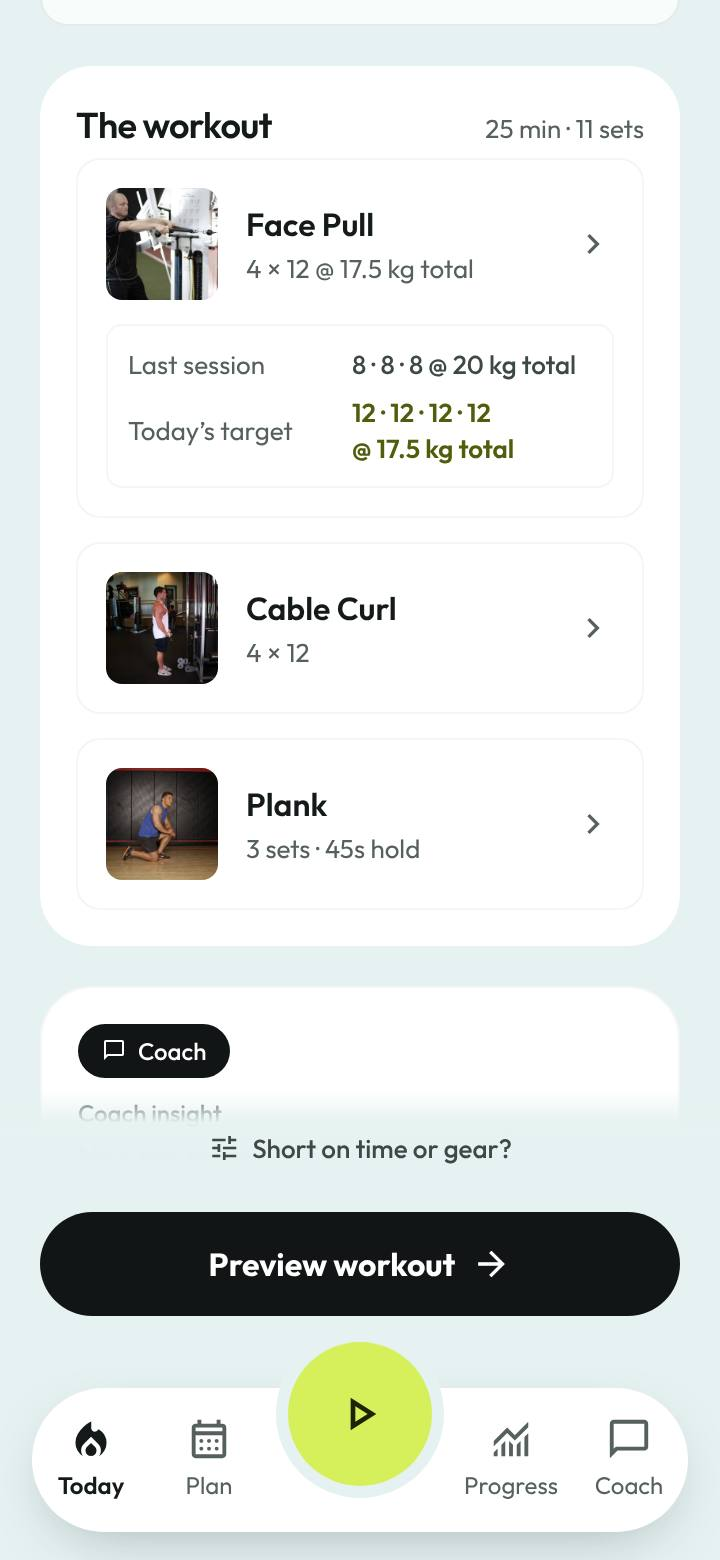
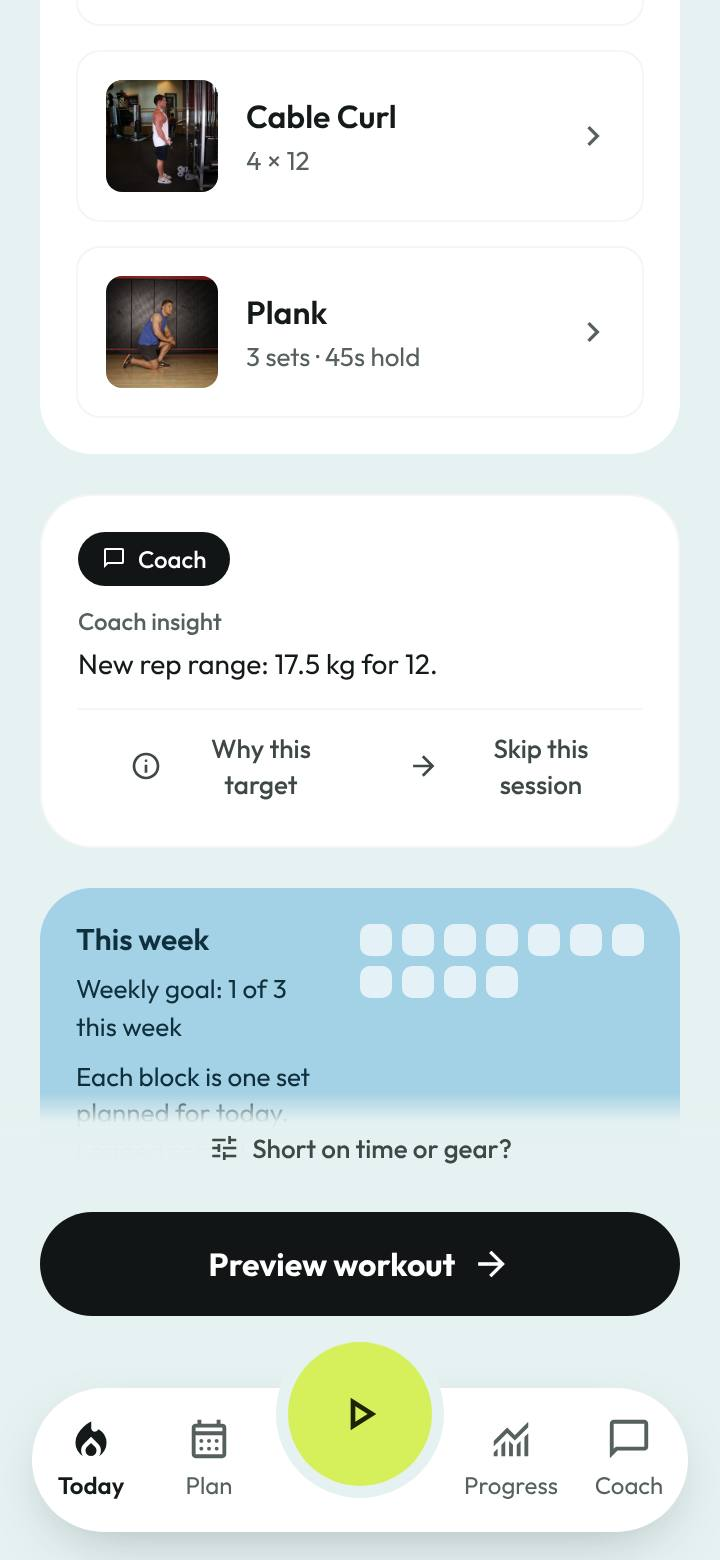
fix: reset load on a range change only within the same role (#139)
A lift that leads one day (heavy 4-6, 3-5 or 8-10 technique) and follows
on another in a 6-10 range planned reps below the other day's minimum
every cycle, so range-reset fired each rotation and ratcheted the load
down. The last session's role now comes from its record (leadSlotIds over
the stored exercise order) and the reset needs it to match today's role.

Tests: a 36-session lead/follow rotation over 72 profiles never lowers a
load; a lead-to-follow change keeps its load; a strength-to-muscle goal
change still resets the lead. Coach-line screenshots reshot clear of the
sticky bar.

Claude-Session: https://claude.ai/code/session_01LzbJhBTy2WSPNAhmn6bBfG

Changed region(s): [[0.0306, 0.0, 0.9472, 0.7385]]

diff --git a/tests/rangeChangeLoad139.test.ts b/tests/rangeChangeLoad139.test.ts
@@ -1,7 +1,10 @@
 import assert from 'node:assert/strict';
 import test from 'node:test';
 import { exerciseById } from '../src/data/exercises.ts';
+import { buildPlan } from '../src/lib/generator.ts';
+import { liveExercises } from '../src/lib/liveProgression.ts';
 import { coachLine, describePrescription, prescribeExercise } from '../src/lib/progression.ts';
+import { planSlots, slotProgram } from '../src/lib/sequence.ts';
 import type { Profile, WorkoutRecord } from '../src/types.ts';
 
 const profile: Profile = {
@@ -74,4 +77,65 @@ test('#139: barbell and dumbbell loads round down to their step', () => {
 test('#139: a bodyweight exercise is unchanged', () => {
   const prescription = prescribe('push-up', history('push-up', 0, 8, 8));
   assert.deepEqual([prescription.weight, prescription.reps, prescription.basis], [0, 10, 'rep-increase']);
+});
+
+test('#139: a lift that leads one day and follows on another never loses load (36-session rotation)', () => {
+  // The lifter does exactly each target; only the role changes between days (#97 lead ranges).
+  const start: Partial<Record<string, number>> = { Barbell: 60, Dumbbell: 15, Cable: 25, Machine: 50, Kettlebell: 16 };
+  const drops: string[] = [];
+  for (const goal of ['Build Muscle', 'Get Stronger', 'Lose Fat'] as const) {
+    for (const experience of ['Beginner', 'Intermediate', 'Advanced'] as const) {
+      for (const daysPerWeek of [2, 3, 4, 5]) {
+        for (const kit of ['gym', 'home'] as const) {
+          const lifter: Profile = {
+            ...profile, goal, experience, daysPerWeek, sessionMinutes: 60,
+            equipment: kit === 'gym' ? ['Barbell', 'Dumbbell', 'Cable', 'Machine'] : ['Dumbbell', 'Kettlebell'],
+            support: ['Bench', 'Rack', 'Pull-up bar'],
+            loads: kit === 'gym' ? {} : {
+              Dumbbell: [5, 7.5, 10, 12.5, 15, 17.5, 20, 22.5, 25, 27.5, 30, 32.5, 35],
+              Kettlebell: [8, 12, 16, 20, 24, 28, 32],
+            },
+          };
+          const slots = planSlots(buildPlan(lifter));
+          const rows: WorkoutRecord[] = [];
+          const lastLoad: Record<string, number> = {};
+          for (let n = 0; n < 36; n += 1) {
+            const slot = slots[n % slots.length];
+            const exercises = liveExercises(slotProgram(lifter, slot, rows), lifter, rows);
+            for (const exercise of exercises) {
+              const equipment = exerciseById(exercise.exerciseId)?.equipment;
+              const planned = exercise.planned[0]?.weight ?? 0;
+              const weight = planned > 0 ? planned : (equipment && start[equipment]) || 0;
+              exercise.performed = exercise.planned.map((set) => ({ weight, reps: set.reps, done: true, completedAt: null }));
+              const before = lastLoad[exercise.exerciseId];
+              if (before !== undefined && weight < before) {
+                drops.push(`${goal}/${experience}/${daysPerWeek}/${kit} ${exercise.exerciseId}: ${before} → ${weight} at session ${n}`);
+              }
+              lastLoad[exercise.exerciseId] = weight;
+            }
+            rows.push({
+              id: `w${n}`, date: new Date(Date.UTC(2026, 0, 1 + n * 2)).toISOString(), name: slot.name, dayIndex: slot.index,
+              status: 'completed', completedEarly: false, endedAt: null, exercises,
+            });
+          }
+        }
+      }
+    }
+  }
+  assert.deepEqual(drops.slice(0, 5), [], `${drops.length} load drops`);
+});
+
+test('#139: a goal change from strength to muscle resets the lead to its new minimum', () => {
+  // Bench led at 100 × 3 under Get Stronger (3–5); as a Build Muscle lead (4–6): 110 / (34/30) = 97.06 → 95 × 4.
+  const bench = exerciseById('barbell-bench-press')!;
+  const prescription = prescribeExercise(bench, { ...profile, goal: 'Build Muscle' }, history(bench.id, 100, 3, 3), true);
+  assert.deepEqual([prescription.weight, prescription.reps, prescription.basis], [95, 4, 'range-reset']);
+});
+
+test('#139: a lead last time that follows today keeps its load (a role change is not a range change)', () => {
+  // The record holds bench alone, so it led; today it follows in a 6–10-style range.
+  const bench = exerciseById('barbell-bench-press')!;
+  const prescription = prescribeExercise(bench, profile, history(bench.id, 60, 4, 4), false);
+  assert.equal(prescription.weight, 60);
+  assert.notEqual(prescription.basis, 'range-reset');
 });

diff --git a/src/lib/progression.ts b/src/lib/progression.ts
@@ -290,6 +290,8 @@ export interface ExercisePerformance {
   plannedReps: number;
   /** Sets actually marked done in that session. */
   done: PerformanceSet[];
+  /** It held that session's lead slot (see `leadSlotIds`), read from the record's exercise order. */
+  lead: boolean;
 }
 
 /**
@@ -323,6 +325,7 @@ export function lastExercisePerformance(
       plannedWeight: found.firstPlanned?.weight ?? 0,
       plannedReps: found.firstPlanned?.reps ?? 0,
       done: found.done.map((set) => ({ weight: set.weight, reps: set.reps })),
+      lead: leadSlotIds(workout.exercises).includes(exerciseId),
     };
   }
   return latest ?? (setup === 'home' ? null : lastExercisePerformance(history, exerciseId, 'home'));
@@ -483,9 +486,11 @@ function prescribeOn(
   }
 
   // The range moved above what was planned and lifted (#139: Face Pull 6–10 → 12–20): the planned reps
-  // already sat below today's minimum, so this is not a failed set. Lower to the Epley load for the
-  // minimum, rounded down to a step; never above the logged load.
-  if (lowestReps < range.min && last.plannedReps > 0 && last.plannedReps < range.min && increment > 0) {
+  // already sat below today's minimum in the same role, so this is not a failed set. A lift that leads
+  // one day and follows on another changes range by role, not by a range change, so it never lowers.
+  // Lower to the Epley load for the minimum, rounded down to a step; never above the logged load.
+  const sameRole = last.lead === (lead && canLead(exercise));
+  if (sameRole && lowestReps < range.min && last.plannedReps > 0 && last.plannedReps < range.min && increment > 0) {
     const estimate = (workingWeight * (1 + lowestReps / 30)) / (1 + range.min / 30);
     const down = available.length > 0
       ? atOrUnder(available, estimate) ?? available[0]
